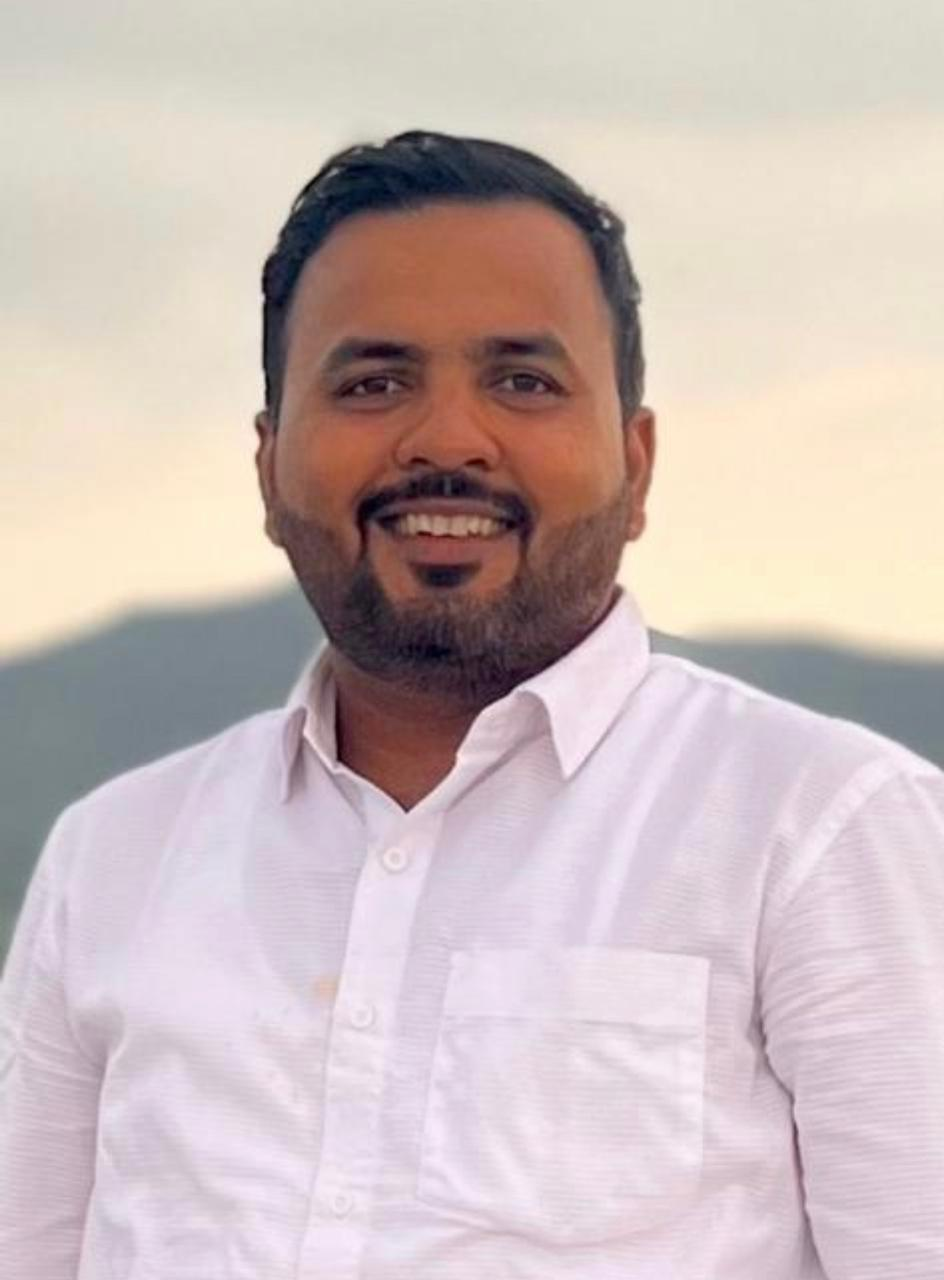
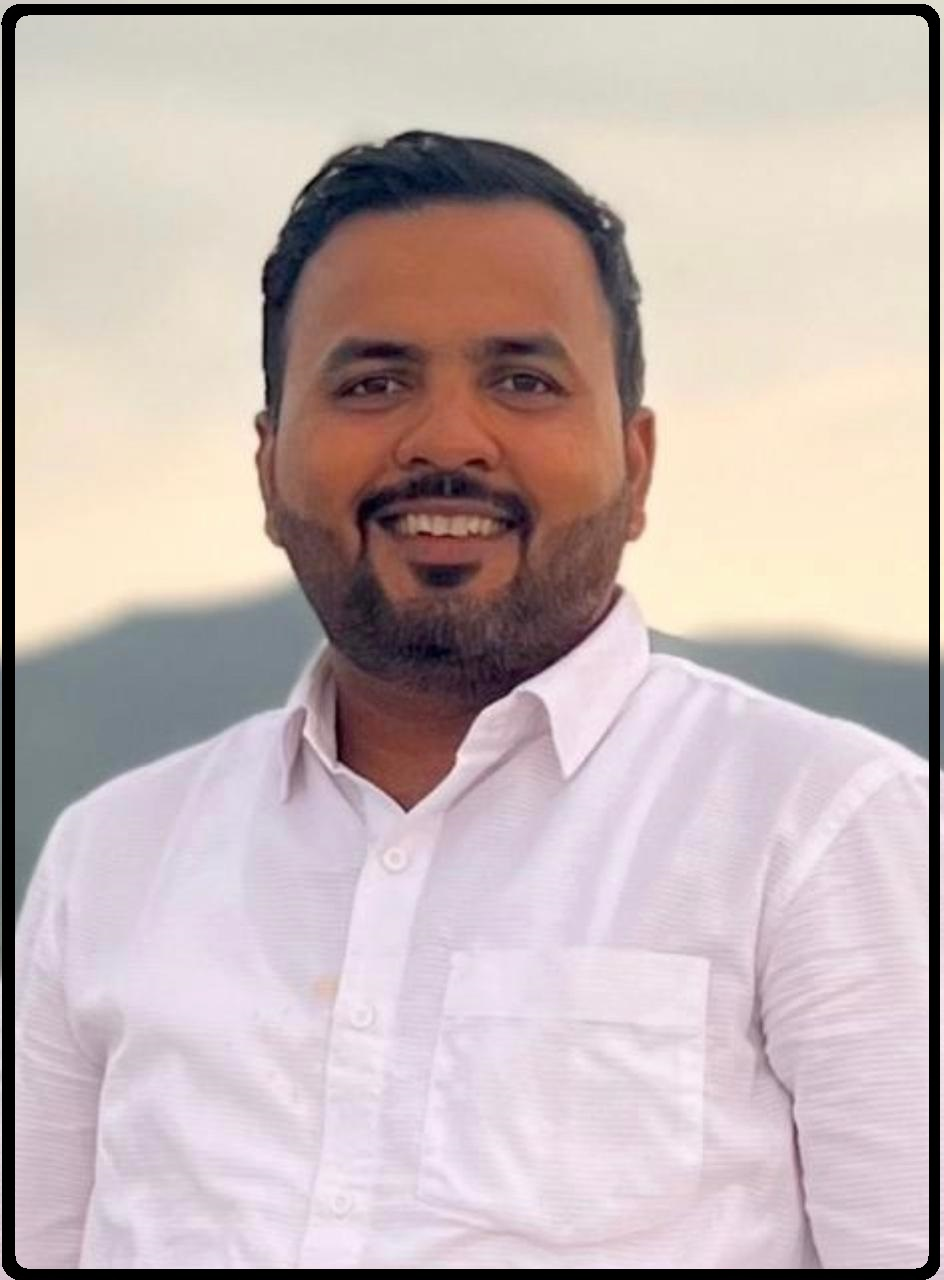
carousal

Changed region(s): [[0.0, 0.0, 1.0, 1.0]]

diff --git a/index.html b/index.html
@@ -77,7 +77,7 @@
      <div class="container-fluid p-0 mb-5">
         <div class="owl-carousel header-carousel position-relative">
             <div class="owl-carousel-item position-relative">
-                <img class="img-fluid" src="img/33.jpg" alt="">
+                <img class="img-fluid" src="img/33New.jpg" alt="">
                  <div class="position-absolute bottom-0 start-0 w-100 h-100 d-flex flex-column-reverse">
                     <div class="container">
                         <div class="row justify-content-start">
@@ -468,7 +468,7 @@
 		    <div class="col-lg-3 col-md-6 wow fadeInUp" data-wow-delay="0.7s">
                     <div class="team-item bg-light">
                         <div class="overflow-hidden">
-                            <img class="img-fluid" src="img/22.jpeg" alt="">
+                            <img class="img-fluid" src="img/22New.jpg" alt="">
                         </div>                
                         <div class="text-center p-4">
                             <h5 class="mb-0">ॲड. किरण चं. निकम</h5>
